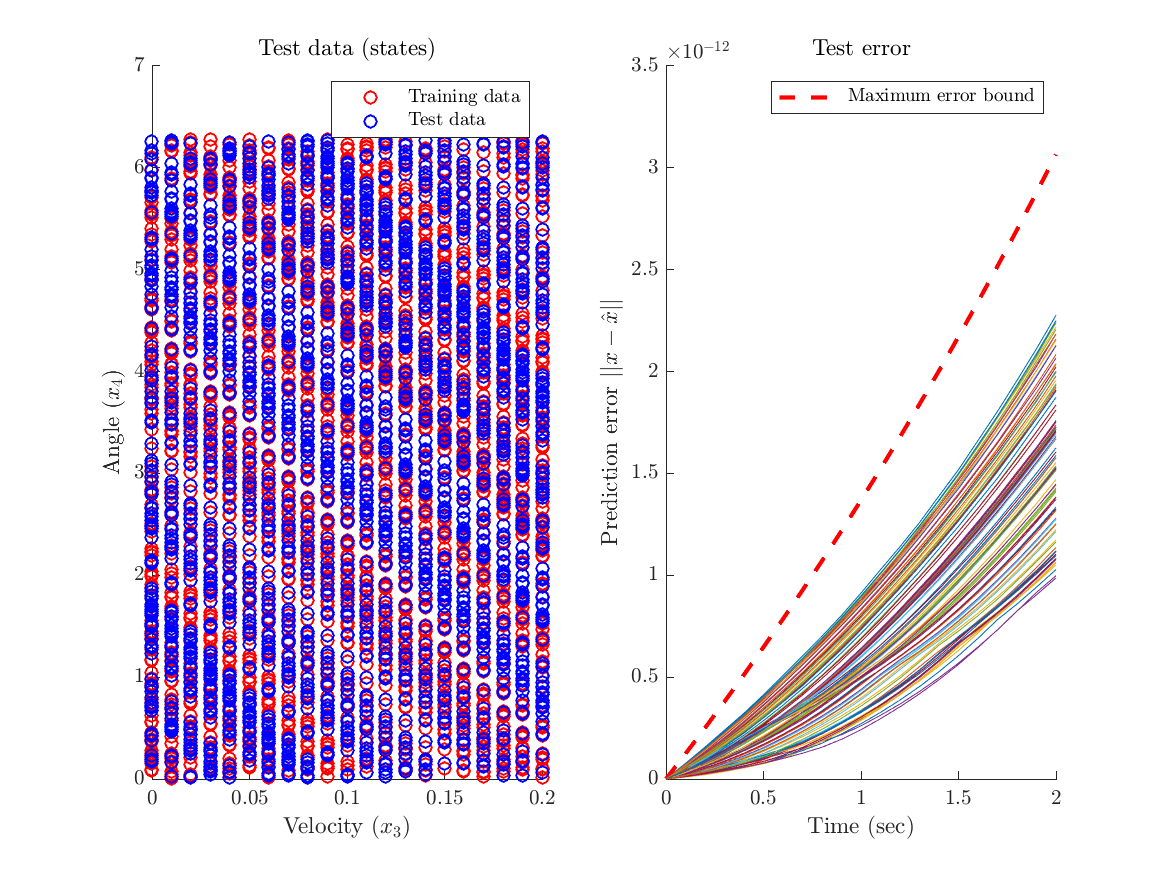
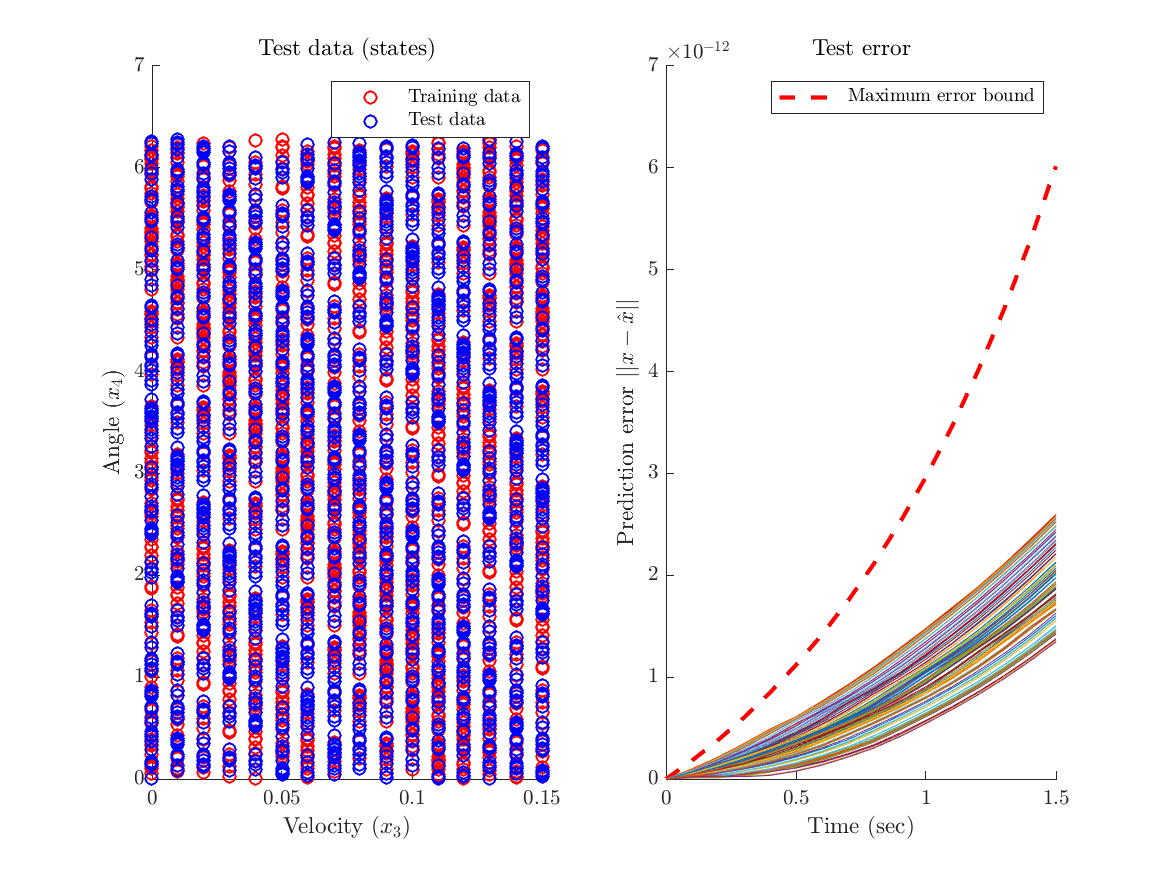
Robotarium sim experiments functional

diff --git a/koopman_qp_cbf_multiagent_obstacle_vec.m b/koopman_qp_cbf_multiagent_obstacle_vec.m
@@ -1,0 +1,89 @@
+function u = koopman_qp_cbf_multiagent_obstacle_vec(x, u0, agent_ind, N, system_dynamics, barrier_func_obstacle, barrier_func_collision, alpha, n_agents, func_dict, K_pows, C, options, u_lim)
+ assert(size(x,2)==n_agents,'Number of agents misspesified');
+    n=4;
+    
+    xx = zeros(n_agents,N,n);
+    h = 1e-4;
+    
+    for i = 1 : n_agents
+        [d,J] = func_dict(x(:,i));
+        for k=1:N
+            xx(i,k,:)=(C*K_pows{k}*d)';
+            QQ{i,k} = C*K_pows{k}*J;
+        end
+    end
+    
+    Aineq = [];
+    bineq = [];
+    
+    [f,g] = system_dynamics(x(:,agent_ind));
+    x_i = reshape(xx(agent_ind,:,:),N,n);
+    
+    % Static obstacle avoidance:
+    b_obs = barrier_func_obstacle(x_i);
+
+    inds = find(b_obs < 1);
+    x_i_red = x_i(inds,:);
+    qq = blkdiag(QQ{agent_ind,inds});
+    b_obs_red = b_obs(inds);
+    N_red = size(inds,1);
+
+    if N_red > 0
+        db_obs = zeros(N_red,n);
+        db_obs(:,1) = (barrier_func_obstacle(x_i_red+[h 0 0 0])-b_obs_red)/h;
+        db_obs(:,2) = (barrier_func_obstacle(x_i_red+[0 h 0 0])-b_obs_red)/h;
+        db_obs(:,3) = (barrier_func_obstacle(x_i_red+[0 0 h 0])-b_obs_red)/h;
+        db_obs(:,4) = (barrier_func_obstacle(x_i_red+[0 0 0 h])-b_obs_red)/h;
+
+        db_obs_cell = mat2cell(db_obs,ones(1,N_red));
+        db_obs_blkdiag = blkdiag(db_obs_cell{:});
+        f_ext = repmat(f,N_red,1);
+        g_ext = repmat(g,N_red,1);
+        Aineq = [Aineq;-db_obs_blkdiag*qq*g_ext];
+        bineq = [bineq;alpha*b_obs_red+db_obs_blkdiag*qq*f_ext];
+    end
+    
+    % Agent-agent collision avoidance:
+    for j = 1 : n_agents
+        if agent_ind == j
+            continue
+        end
+
+        x_j = reshape(xx(j,:,:),N,n);
+        b_coll = barrier_func_collision(x_i, x_j);
+
+        inds = find(b_coll < 1);
+        x_1_red = x_i(inds,:);
+        x_2_red = x_j(inds,:);
+        qq = blkdiag(QQ{agent_ind,inds});
+        b_coll_red = b_coll(inds);
+        N_red = size(inds,1);
+
+        if N_red > 0
+            db_coll = zeros(N_red,n);
+            db_coll(:,1) = (barrier_func_collision(x_1_red+[h 0 0 0],x_2_red)-b_coll_red)/h;
+            db_coll(:,2) = (barrier_func_collision(x_1_red+[0 h 0 0],x_2_red)-b_coll_red)/h;
+            db_coll(:,3) = (barrier_func_collision(x_1_red+[0 0 h 0],x_2_red)-b_coll_red)/h;
+            db_coll(:,4) = (barrier_func_collision(x_1_red+[0 0 0 h],x_2_red)-b_coll_red)/h;
+
+            db_coll_cell = mat2cell(db_coll,ones(1,N_red));
+            db_coll_blkdiag = blkdiag(db_coll_cell{:});
+            f_ext = repmat(f,N_red,1);
+            g_ext = repmat(g,N_red,1);
+            Aineq = [Aineq;-db_coll_blkdiag*qq*g_ext];
+            bineq = [bineq;alpha*b_coll_red+db_coll_blkdiag*qq*f_ext];
+        end
+    end
+    
+    % Actuator limits:
+    if nargin > 13
+       Aineq = [Aineq;-eye(2);eye(2)]; % [other constraints; lower lim, upper lim]
+       bineq = [bineq;-u_lim(:,1);u_lim(:,2)];
+    end
+    
+    if isempty(Aineq)
+        u = u0;
+    else
+        [u,~,~] =qpOASES(eye(2),-u0,Aineq,[],[],[],bineq,options);
+    end
+end

diff --git a/robotarium_collision_obstacle_avoidance.m b/robotarium_collision_obstacle_avoidance.m
@@ -12,10 +12,11 @@ radius_waypoints = 0.8;                             % Radius of circle where way
 start_angles = linspace(0,2*pi-(2*pi/N),N);         % Angle of ray where each robot is placed initially
 end_angles = wrapTo2Pi(start_angles + pi);          % Angle of ray where each robot has final position
 koopman_file = 'dubin_learned_koopman.mat';         % File containing learned Koopman model
-r_margin = 0.14;                                    % Minimum distance between robot center points                
+r_margin = 0.23;                                    % Minimum distance between robot center points                
 alpha = 1;                                          % CBF strengthening term
-obs = [0;0];                                        % Center of obstacle
-r_circ = 0.2;                                       % Radius of obstacle (- r_margin)
+obs = [-0.3 0.1];                                   % Center of obstacle
+r_obs = 0.2;                                        % Radius of obstacle (- r_margin)
+color_vec = ['k' 'y' 'b' 'r' 'c'];                  % Color spec for markers
 
 % Generate intial and final positions:
 initial_positions = zeros(n,N);
@@ -42,7 +43,9 @@ affine_dynamics = @(x) dubin(x);                        % System dynamics, retur
 dt = r.time_step;
 u_lim = [-0.1 0.1; - 2*pi/3, 2*pi/3];
 barrier_func_collision = @(x_1, x_2) collision_avoidance_vec(x_1,x_2,r_margin);                   
-supervisory_controller = @(x,u0,agent_ind) koopman_qp_cbf_multiagent_vec(x, u0, agent_ind, N_max, affine_dynamics, barrier_func_collision, alpha, N, func_dict, K_pows, C, options, u_lim);
+barrier_func_obstacle = @(x) round_obs_vec(x,obs,r_obs);             
+draw_circle(obs(1),obs(2),r_obs-r_margin/2);
+supervisory_controller = @(x,u0,agent_ind) koopman_qp_cbf_multiagent_obstacle_vec(x, u0, agent_ind, N_max, affine_dynamics, barrier_func_obstacle, barrier_func_collision, alpha, N, func_dict, K_pows, C, options, u_lim);
 
 % Get initial location data for while loop condition.
 x=r.get_poses();
@@ -85,11 +88,17 @@ for l = 1:n_passes
         u_0 = [ad_est; dxu(2,:)];
         
         for i = 1:N
+            %if abs(dxu(1,i)) > pi
+            %    disp(dxu(2,i))
+            %end
             u_barrier = supervisory_controller(x_mod,u_0(:,i),i);
             vd_est = v_est(i) + u_barrier(1)*dt;
-        
+            
+            vd_est = max(vd_est,0); % Ensure vd is in [0. 0.15] (as a result of the simplified state estimation)
+            vd_est = min(vd_est,0.15);
             dxu(:,i) = [vd_est; u_barrier(2)];
         end
+        
         
         r.set_velocities(1:N, dxu);
         r.step();   

diff --git a/dubin_example.m b/dubin_example.m
@@ -13,8 +13,8 @@ affine_dynamics = @(x) dubin(x);                    % System dynamics, returns [
 sim_dynamics = @(x,u) dubin_sim(x,u);               % System dynamics used for simulation
 sim_process = @(x,ts) dubin_sim_process(x,ts);      % Processing of states while simulating
 Ts = 0.1;                                          % Sampling interval
-vm = 0.2;                                           % Maximum velocity
-rm = 2*pi/3;                                          % Maximum yaw rate
+vm = 0.15;                                           % Maximum velocity
+rm = 3*pi/2;                                          % Maximum yaw rate
 am = 0.1;                                           % Maximum acceleration
 x_bdry = [-1.6 1.6;-1 1;vm vm;0 2*pi];              % State constraints
 N_max = ceil(vm/am/Ts);                             % Maximum backup controller horizon
@@ -34,7 +34,7 @@ mpc_horizon = 20;                                   % Time horizon of legacy con
 legacy_controller = @(x) MIQP_MPC_v3(x,x_des,20);   % Legacy controller (MPC)
 options = qpOASES_options('printLevel',0);          % Solver options for supervisory controller
 T_exp = 10;                                         % Experiment length
-alpha = 1;                                          % CBF strengthening parameter
+alpha = 2;                                          % CBF strengthening parameter
 obs = [0.5;0];                                      % Center of circular obstacle
 r = 0.05;                                           % Radius of circular obstacle
 barrier_func = @(x) round_obs(x,obs,r);             % Barrier function

diff --git a/dubin_D.m b/dubin_D.m
@@ -3,7 +3,7 @@ function [D,J,C] = dubin_D(x1,x2,x3,x4)
 %    [D,J,C] = DUBIN_D(X1,X2,X3,X4)
 
 %    This function was generated by the Symbolic Math Toolbox version 8.1.
-%    25-Aug-2020 10:26:29
+%    25-Aug-2020 17:11:15
 
 t2 = cos(x4);
 t3 = sin(x4);

diff --git a/utils/draw_circle.m b/utils/draw_circle.m
@@ -1,6 +1,6 @@
 function [] =draw_circle(X,Y,R,color,linewidth)
 if nargin<4
-    color='b';
+    color='r';
     
 end
 if nargin<5

diff --git a/round_obs_vec.m b/round_obs_vec.m
@@ -1,0 +1,3 @@
+function b = round_obs_vec(x,center,r)
+    b = diag((x(:,1:2)-center)*(x(:,1:2)-center)')-r^2;
+end
